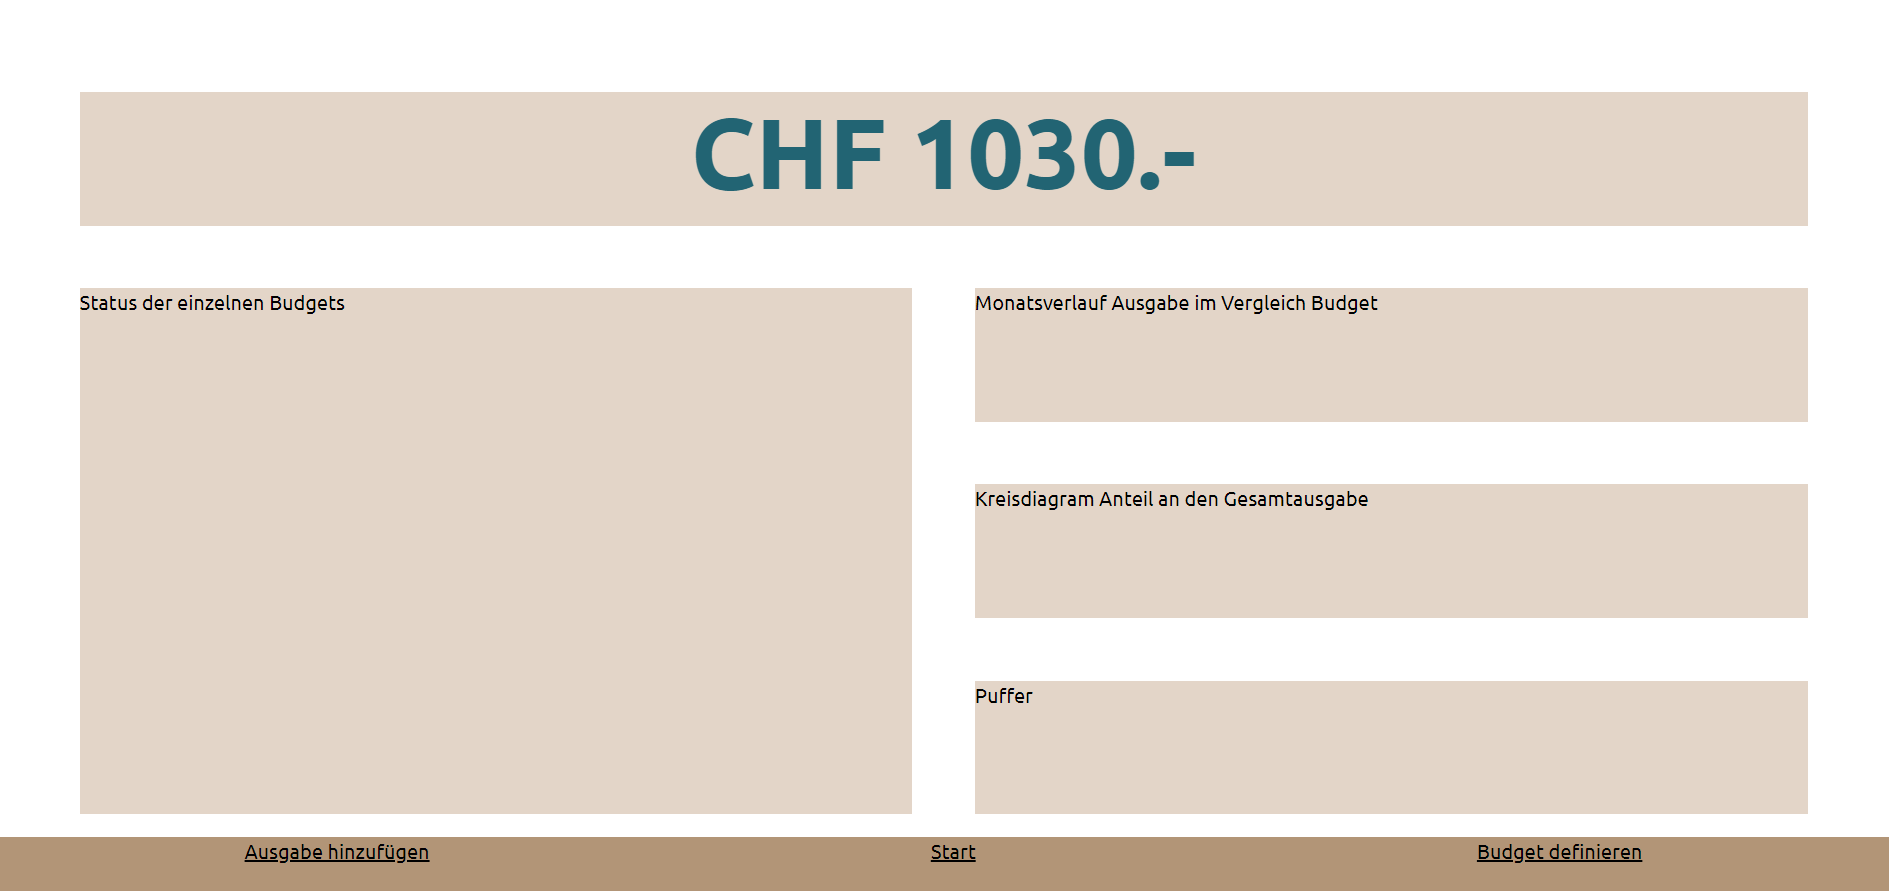
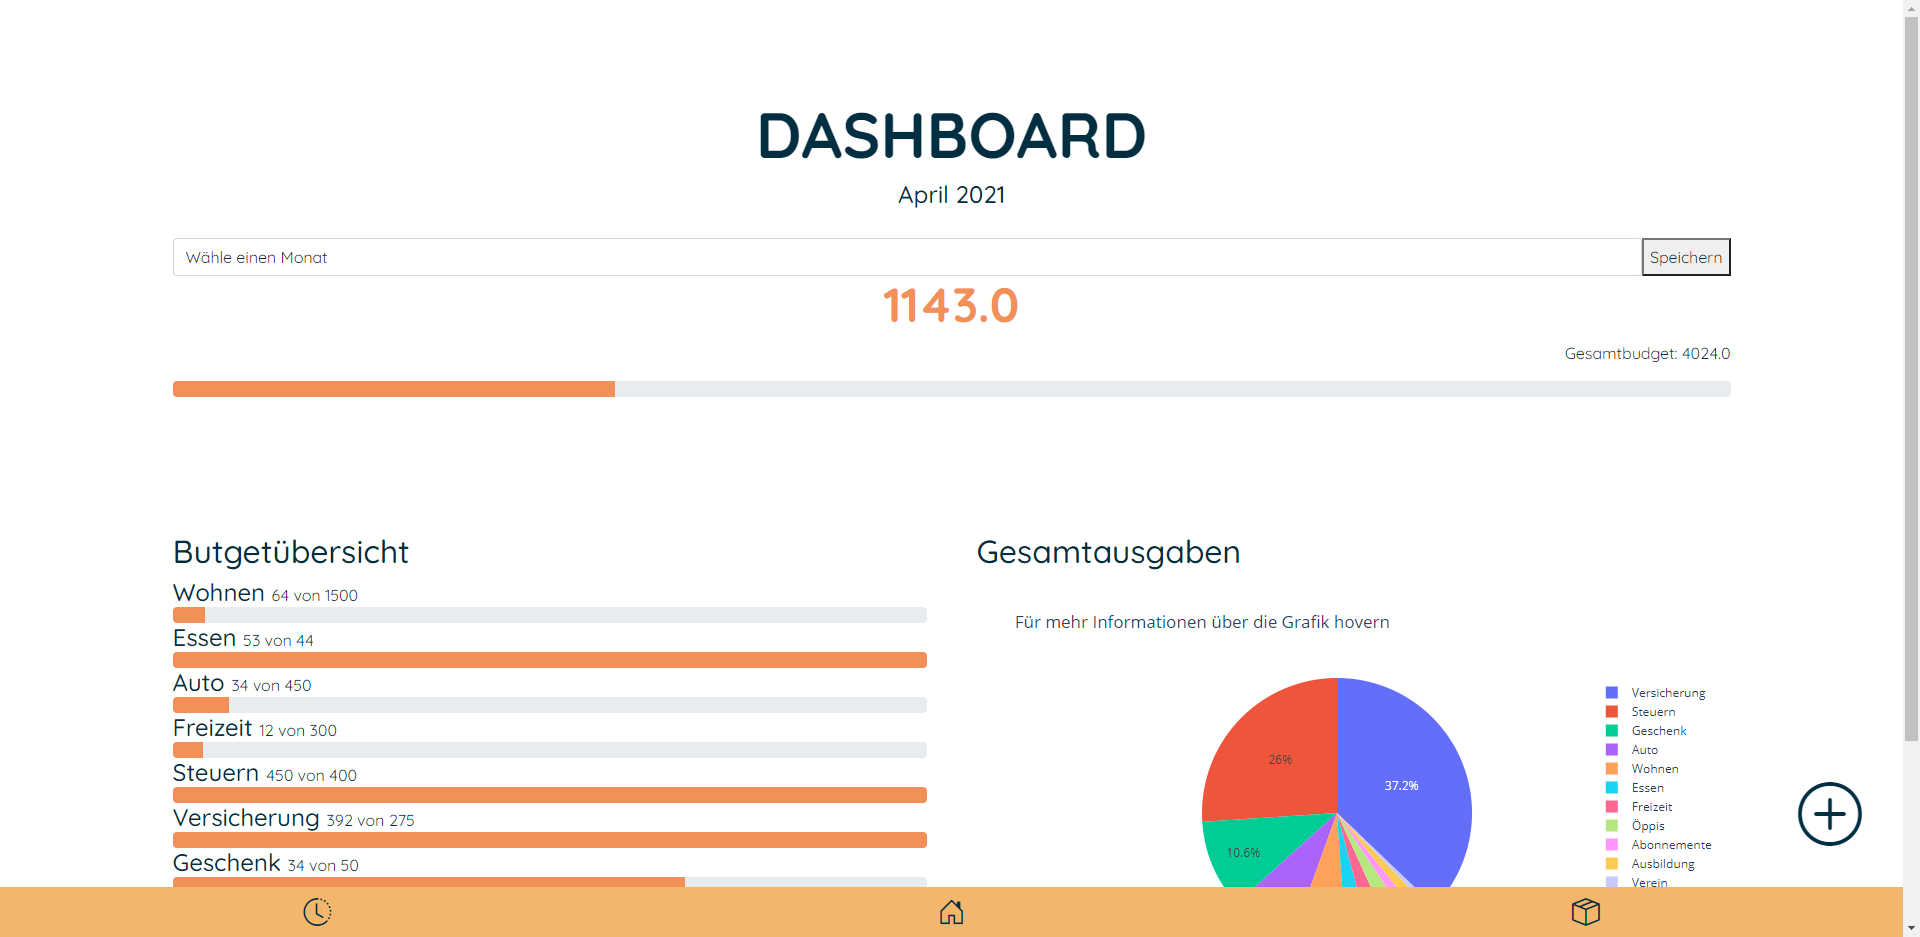
URL anpassen und Grafiken einfügen

diff --git a/Budget/templates/layout.html b/Budget/templates/layout.html
@@ -10,12 +10,12 @@
 
     {% block content %}{% endblock %}
 
-        <a title="Ausgabe hinzufügen" href="/add-ausgabe/"><div class="add_ausgabe_button"><i class="bi bi-plus-circle"></i></div></a>
+        <a title="Ausgabe hinzufügen" href="{{ url_for('ausgabe_hinzufügen') }}"><div class="add_ausgabe_button"><i class="bi bi-plus-circle"></i></div></a>
       <footer>
-            <div><a title="Ausgaben" href="/ausgaben/"><i class="bi bi-clock-history"></i></a></div>
+            <div><a title="Ausgaben" href="{{ url_for('ausgaben_auflisten') }}"><i class="bi bi-clock-history"></i></a></div>
 
-            <div><a title="Startseite" href="/"><i class="bi bi-house-door"></i></a></div>
-            <div><a title="Budget" href="/budget/"><i class="bi bi-box-seam"></i></a></div>
+            <div><a title="Startseite" href="{{ url_for('index') }}"><i class="bi bi-house-door"></i></a></div>
+            <div><a title="Budget" href="{{ url_for('auflisten') }}"><i class="bi bi-box-seam"></i></a></div>
         </footer>
 
 
@@ -23,5 +23,5 @@
 
 
         <script src="https://code.jquery.com/jquery-3.5.1.min.js" integrity="sha256-9/aliU8dGd2tb6OSsuzixeV4y/faTqgFtohetphbbj0=" crossorigin="anonymous"></script>
-        <link rel="stylesheet" href="{{ url_for('static', filename='bootstrap/js/bootstrap.min.js') }}">
+        <script src="{{ url_for('static', filename='bootstrap/js/bootstrap.min.js') }}">
 </html>

diff --git a/Budget/templates/budget.html b/Budget/templates/budget.html
@@ -2,7 +2,12 @@
 {% block content %}
 <body class="budget">
 <h1>BUDGET</h1>
-          <table class="table">
+
+        <div id="Barchart_budget">
+            {{ div_bar_budget|safe }}
+        </div>
+<hr>
+    <table class="table">
               <tbody>
     <tr>
        <th> Kategorie </th>
@@ -32,7 +37,9 @@
     </tr>
               </tbody>
  </table>
-<a href="/add-budget/">Budgetkategorie hinzufügen</a>
+<a href="{{ url_for('budget_hinzufügen') }}">Budgetkategorie hinzufügen</a>
+
+
 
            </body>
 {% endblock %}

diff --git a/Budget/templates/delete-ausgabe.html b/Budget/templates/delete-ausgabe.html
@@ -2,7 +2,7 @@
 {% block content %}
 <body class="delete-ausgabe">
 <h3>Die ausgewählte Ausgabe wurde gelöscht</h3>
-<a href="/ausgaben/">zurück zur Ausgaben Liste</a>
+<a href="{{ url_for('ausgaben_auflisten') }}">zurück zur Ausgaben Liste</a>
 
 
 </body>

diff --git a/Budget/templates/delete-budget.html b/Budget/templates/delete-budget.html
@@ -2,7 +2,7 @@
 {% block content %}
 <body class="delete-budget">
 <h3>Das ausgewählte Budget wurde gelöscht</h3>
-<a href="/budget/">zurück zur Budget Liste</a>
+<a href="{{ url_for('auflisten') }}">zurück zur Budget Liste</a>
 
 
 </body>

diff --git a/Budget/templates/ausgaben.html b/Budget/templates/ausgaben.html
@@ -5,6 +5,10 @@
 {% block content %}
 <body class="budget">
 <h1>AUSGABEN</h1>
+        <div id="Barchart">
+            {{ div_bar_ausgabe|safe }}
+        </div>
+        <hr>
           <table class="table">
               <tbody>
     <tr>

diff --git a/Budget/static/main.css b/Budget/static/main.css
@@ -92,6 +92,8 @@ height: 50px;
 footer i.bi {line-height: 1.8;}
 
 
+hr {margin: 50px 0;}
+
 
 /****************************************************************
 ***************************************************************/

diff --git a/Budget/viz.py b/Budget/viz.py
@@ -16,8 +16,49 @@ def pie_chart_ausgaben():
         wert.append(value[0])
     df = pd.DataFrame(list(zip(name, wert)), columns=['Kategoriename', 'Wert'])
 
-    fig1 = px.pie(df, values="Wert", names='Kategoriename', title="Für mehr Informationen über die Grafik hovern")
+    fig1 = px.pie(df, values="Wert", names='Kategoriename', title="Für mehr Informationen über die Grafik hovern", template="presentation")
     div_pie = plot(fig1, output_type="div")
     return div_pie
 
+def barchart_ausgaben():
+    with open('ausgabe.json') as open_file:
+        json_als_string = open_file.read()
+        aus = json.loads(json_als_string)
 
+    zeilen = []
+    spalten = ["Betrag", "Kategorie", "Zeitpunkt", "Bezeichnung"]
+
+    for i, j in aus.items():
+        zeilen.append(j)
+
+    df = pd.DataFrame(zeilen, columns=spalten )
+    df.Betrag = df.Betrag.astype("int")
+
+    fig = px.bar(df, x="Zeitpunkt", y="Betrag", color="Kategorie",  hover_name="Bezeichnung", template="presentation")
+    div_bar_ausgabe = plot(fig, output_type="div")
+    return div_bar_ausgabe
+
+
+def barchart_budget():
+    with open('budget.json') as open_file:
+        json_als_string = open_file.read()
+        bud = json.loads(json_als_string)
+
+    # print(bud)
+    Kategorie = []
+    Betrag = []
+
+    for i, j in bud.items():
+        Kategorie.append(i)
+        Betrag.append(j)
+
+    dict = {'Kategorie': Kategorie, 'Betrag': Betrag}
+    df = pd.DataFrame(dict)
+
+    print(df)
+
+    df.Betrag = df.Betrag.astype("int")
+
+    fig = px.bar(df, x="Kategorie", y="Betrag", color="Kategorie", hover_name="Betrag", template="presentation")
+    div_bar_budget = plot(fig, output_type="div")
+    return div_bar_budget

diff --git a/Budget/main.py b/Budget/main.py
@@ -8,7 +8,9 @@ import viz
 
 app = Flask("templates")
 
-# Erstellt mir die Startseite "Dashboard", wo ich die Übersicht über meine Ausgaben erhalten
+""" 
+Erstellt mir die Startseite "Dashboard", wo ich die Übersicht über meine Ausgaben erhalten
+"""
 @app.route("/", methods=['GET', 'POST'])
 def index():
 
@@ -46,7 +48,7 @@ def budget_hinzufügen():
 # Erstellt mir die Unterseite "Budget", wo ich eine Auflistung aller meiner erfassten Budgetkategorie habe
 @app.route("/budget/")
 def auflisten():
-    return render_template("budget.html", budget_dict=daten.umwandlung_budget(), summe_b=daten.budget_zusammenzaehlen())
+    return render_template("budget.html", budget_dict=daten.umwandlung_budget(), summe_b=daten.budget_zusammenzaehlen(), div_bar_budget=viz.barchart_budget())
 
 
 #Löschen einer Budgetskategorie
@@ -71,7 +73,7 @@ def delete_ausgabe():
 @app.route("/ausgaben/")
 def ausgaben_auflisten():
 
-    return render_template("ausgaben.html", ausgaben_dict=daten.umwandlung_ausgaben())
+    return render_template("ausgaben.html", ausgaben_dict=daten.umwandlung_ausgaben(), div_bar_ausgabe=viz.barchart_ausgaben())
 
 
 if __name__ == "__main__":

diff --git a/README.md b/README.md
@@ -11,7 +11,7 @@ oder noch genügen freie Mittel hat.
 ## Projektidee
 Das Tool soll eine Übersicht über die bereits getätigten Ausgaben inkl. Status des 
 jeweiligen Budgets besitzen. Ausserdem sollen die Budgets selbst hinzugefügt, 
-gelöscht und bearbeitet werden können.
+und wieder gelöscht werden können.
 Das hinzufügen der Ausgaben soll einfach und schnell erfolgen, die vorher definierte 
 Budget-Kategorie soll entsprechend ausgewählt werden können.
 
@@ -21,6 +21,7 @@ Um `AppName`  starten zu können muss folgendes installiert werden:
 - `Python 3.9`
 - `Flask`
 - `Jinja2`
+- `Plotly`
 
 
 Das Tool kann danach von jedem Gerät aus dem Netzwerk über die IP Adresse und Port 5000 aufgerufen werden. 
@@ -33,8 +34,7 @@ Das Tool kann danach von jedem Gerät aus dem Netzwerk über die IP Adresse und 
 
 ### Dateneingabe
 Es sind für die Ausgaben und für die Festlegung der Budget-Kategorien Dateneingaben durch den Nutzer notwendig.
-Zum einen für das Festlegen der Budget-Kategorien und zum anderen für das Hinzufügen von Ausgaben.
-Die Eingaben werden in einem File auf dem System gespeichert.
+Die Eingabe erfolgt über ein Formular, der Inhalt wird in ein json-File gespeichert.
 
 ### Datenverarbeitung/Speicherung
 Alle Daten werden in json-Dateien im Ordner `data/` gespeichert. Dabei wird zwischen zwei Dateien unterschieden. Es gibt die `budget.json` und die `ausgaben.json`
@@ -52,15 +52,25 @@ Die Eingegebenen Ausgaben bzw. Budget-Kategorien werden direkt
 nach dem Erfassen in der jeweiligen Registerkarte als Liste angezeigt. 
 
 ## Benutzeranleitung
+Der Nutzer hat die möglichkeit eine neue Budget-Kateogire hinzuzufügen oder zu löschen, sowie eine Ausgabe hinzuzufügen oder zu löschen. 
+Ausserdem kann er im Dashboard die Ausgaben je Monat anzeigen lassen. Wie das genau funktioneirt, wird nachfolgende beschrieben.
 ### Budget hinzufügen
-Wenn man nach der Installation das erste mal auf die Seite geht, sind noch keine Daten vorhanden.
-Man kan entweder eine Ausgabe hinzufügen (ohne Budget) oder  zuerst seine Budget-Kategorien hinzufügen.
-Dazu wählt man im Menü `Budget hinzufügen` aus.
-![Budget](Budget/doku/budget.PNG)
+Wenn man nach der Installation das erste mal auf die Seite geht (Startseite), sind noch keine Daten vorhanden, das Dashboard zeigt in diesem Fall keine Daten an.
+Man kan nun entweder eine Ausgabe hinzufügen (ohne Budget) oder  zuerst seine Budget-Kategorien hinzufügen.
+Dazu wählt man im Menüband unten das Symbol `Budget` aus. Man wird auf die Budgetseite weitergeleitet und 
+hat nun die Möglichkeit `Budgetkategorie hinzufügen` anzuwählen. Es öffnet sich ein Eingabeformular wo man 
+die Bezeichnung und den Betrag angeben kann.
+![Budget](Budget/doku/budgetuebersicht.PNG)
 
 ### Ausgabe hinzufügen
-Im Menü wählt man `Ausgabe hinzufügen` aus um eine neue Ausgabe zu erfassen.
-![ausgabe](Budget/doku/ausgabe.PNG)
+Eine neue Ausgabe kann von jeder Unterseite durch das Plussymbol im unteren rechten Bildschirmrand erfassen.
+Es öffnet sich ein Eingabeformular wo man den Betrag, die vorher erfasste Budgetkategorie, das Datum sowie die Bezeichnung angeben kann.
+![ausgabe](Budget/doku/ausgaben.png)
 ### Übersicht über die Ausgaben verschaffen
-Im Menü kann man sich einen Überblick über alle in diesem Monat getätigten Ausgaben machen. 
-![dashboard](Budget/doku/dashboard.PNG)
+Auf der Startseite befindet sich das Dashboard, wo man sich einen Überblick über alle in diesem Monat 
+getätigten Ausgaben machen kann. Durch Auswahl des gewünschten Monats kann die Ansicht verändert werden (Standardmässig wird der aktuelle Monat angezeigt). 
+![dashboard](Budget/doku/dashboard.png)
+
+### Ausgabe oder Budget löschen
+Hat man eine Ausgabe oder eine Budgetkategorie falsch erfasst, oder möchte die 
+Kategorie ersetzten, hat man die Möglichkeit über das Löschen Symbol (Abfalleimer) den jeweiligen Eintrag zu entfernen.
